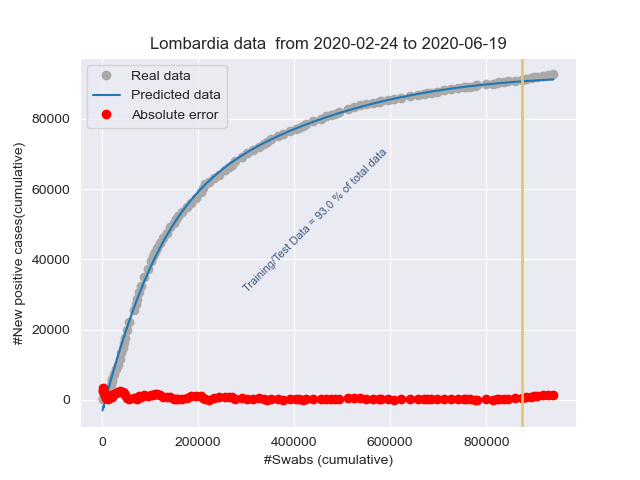
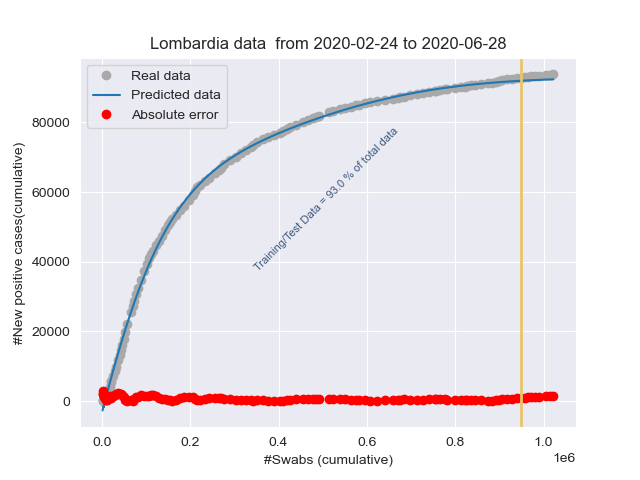
Add files via upload

diff --git a/stat_Friuli Venezia Giulia.html b/stat_Friuli Venezia Giulia.html
@@ -1,1 +1,1 @@
-<!DOCTYPE html><html lang="it"><head><title>Results</title><meta charset="utf-8"><meta name="viewport" content="width=device-width, initial-scale=1"><link rel="stylesheet" href="bootstrap.min.css"><script src="https://ajax.googleapis.com/ajax/libs/jquery/3.4.1/jquery.min.js"></script><script src="https://maxcdn.bootstrapcdn.com/bootstrap/3.4.1/js/bootstrap.min.js"></script></head><body><h3>Day: 2020-06-19</h3><p class="lead my-3">New positive cases: <b>2</b></p><p class="lead my-3">Variation of positive cases: <b>0.0%</b></p><p class="lead my-3">Number of swabs: <b>2624.0</b></p><p class="lead my-3">Variation of swabs: <b>1.57%</b></p><p class="lead my-3">Postive cases/Swabs: <b>0.08 %</b></p><p class="lead my-3">Number of people admitted to Intensive care: <b>0</b></p><p class="lead my-3">Number of recovered people: <b>14.0</b></p><p class="lead my-3">Number of dead people: <b>0.0</b></p><h3>Total</h3><p class="lead my-3">Population of  Friuli Venezia Giulia: <b>1215220</b> <a href="http://dati.istat.it/Index.aspx?QueryId=18548" target="_blank">ISTAT data</a></p><p class="lead my-3">Total number of positive cases from 2020-02-24 00:00:00 to 2020-06-19: <b> 3303</b></p><p class="lead my-3">Total number of swabs from 2020-02-24 00:00:00 to 2020-06-19: <b> 170109</b></p><p class="lead my-3">TotalSwabs/Population: <b> 14.0%</b></p></body></html>
+<!DOCTYPE html><html lang="it"><head><title>Results</title><meta charset="utf-8"><meta name="viewport" content="width=device-width, initial-scale=1"><link rel="stylesheet" href="bootstrap.min.css"><script src="https://ajax.googleapis.com/ajax/libs/jquery/3.4.1/jquery.min.js"></script><script src="https://maxcdn.bootstrapcdn.com/bootstrap/3.4.1/js/bootstrap.min.js"></script></head><body><h3>Day: 2020-06-28</h3><p class="lead my-3">New positive cases: <b>1</b></p><p class="lead my-3">Variation of positive cases: <b>inf%</b></p><p class="lead my-3">Number of swabs: <b>1130.0</b></p><p class="lead my-3">Variation of swabs: <b>0.61%</b></p><p class="lead my-3">Postive cases/Swabs: <b>0.09 %</b></p><p class="lead my-3">Number of people admitted to Intensive care: <b>0</b></p><p class="lead my-3">Number of recovered people: <b>5.0</b></p><p class="lead my-3">Number of dead people: <b>0.0</b></p><h3>Total</h3><p class="lead my-3">Population of  Friuli Venezia Giulia: <b>1215220</b> <a href="http://dati.istat.it/Index.aspx?QueryId=18548" target="_blank">ISTAT data</a></p><p class="lead my-3">Total number of positive cases from 2020-02-24 00:00:00 to 2020-06-28: <b> 3308</b></p><p class="lead my-3">Total number of swabs from 2020-02-24 00:00:00 to 2020-06-28: <b> 186781</b></p><p class="lead my-3">TotalSwabs/Population: <b> 15.37%</b></p></body></html>

diff --git a/stat_Emilia-Romagna.html b/stat_Emilia-Romagna.html
@@ -1,1 +1,1 @@
-<!DOCTYPE html><html lang="it"><head><title>Results</title><meta charset="utf-8"><meta name="viewport" content="width=device-width, initial-scale=1"><link rel="stylesheet" href="bootstrap.min.css"><script src="https://ajax.googleapis.com/ajax/libs/jquery/3.4.1/jquery.min.js"></script><script src="https://maxcdn.bootstrapcdn.com/bootstrap/3.4.1/js/bootstrap.min.js"></script></head><body><h3>Day: 2020-06-19</h3><p class="lead my-3">New positive cases: <b>27</b></p><p class="lead my-3">Variation of positive cases: <b>-15.62%</b></p><p class="lead my-3">Number of swabs: <b>7950.0</b></p><p class="lead my-3">Variation of swabs: <b>1.83%</b></p><p class="lead my-3">Postive cases/Swabs: <b>0.34 %</b></p><p class="lead my-3">Number of people admitted to Intensive care: <b>11</b></p><p class="lead my-3">Number of recovered people: <b>84.0</b></p><p class="lead my-3">Number of dead people: <b>5.0</b></p><h3>Total</h3><p class="lead my-3">Population of  Emilia-Romagna: <b>4459477</b> <a href="http://dati.istat.it/Index.aspx?QueryId=18548" target="_blank">ISTAT data</a></p><p class="lead my-3">Total number of positive cases from 2020-02-24 00:00:00 to 2020-06-19: <b> 28170</b></p><p class="lead my-3">Total number of swabs from 2020-02-24 00:00:00 to 2020-06-19: <b> 443301</b></p><p class="lead my-3">TotalSwabs/Population: <b> 9.94%</b></p></body></html>
+<!DOCTYPE html><html lang="it"><head><title>Results</title><meta charset="utf-8"><meta name="viewport" content="width=device-width, initial-scale=1"><link rel="stylesheet" href="bootstrap.min.css"><script src="https://ajax.googleapis.com/ajax/libs/jquery/3.4.1/jquery.min.js"></script><script src="https://maxcdn.bootstrapcdn.com/bootstrap/3.4.1/js/bootstrap.min.js"></script></head><body><h3>Day: 2020-06-28</h3><p class="lead my-3">New positive cases: <b>21</b></p><p class="lead my-3">Variation of positive cases: <b>-50.0%</b></p><p class="lead my-3">Number of swabs: <b>3421.0</b></p><p class="lead my-3">Variation of swabs: <b>0.71%</b></p><p class="lead my-3">Postive cases/Swabs: <b>0.61 %</b></p><p class="lead my-3">Number of people admitted to Intensive care: <b>12</b></p><p class="lead my-3">Number of recovered people: <b>19.0</b></p><p class="lead my-3">Number of dead people: <b>1.0</b></p><h3>Total</h3><p class="lead my-3">Population of  Emilia-Romagna: <b>4459477</b> <a href="http://dati.istat.it/Index.aspx?QueryId=18548" target="_blank">ISTAT data</a></p><p class="lead my-3">Total number of positive cases from 2020-02-24 00:00:00 to 2020-06-28: <b> 28460</b></p><p class="lead my-3">Total number of swabs from 2020-02-24 00:00:00 to 2020-06-28: <b> 486730</b></p><p class="lead my-3">TotalSwabs/Population: <b> 10.91%</b></p></body></html>

diff --git a/stat_Lombardia.html b/stat_Lombardia.html
@@ -1,1 +1,1 @@
-<!DOCTYPE html><html lang="it"><head><title>Results</title><meta charset="utf-8"><meta name="viewport" content="width=device-width, initial-scale=1"><link rel="stylesheet" href="bootstrap.min.css"><script src="https://ajax.googleapis.com/ajax/libs/jquery/3.4.1/jquery.min.js"></script><script src="https://maxcdn.bootstrapcdn.com/bootstrap/3.4.1/js/bootstrap.min.js"></script></head><body><h3>Day: 2020-06-19</h3><p class="lead my-3">New positive cases: <b>157</b></p><p class="lead my-3">Variation of positive cases: <b>-27.31%</b></p><p class="lead my-3">Number of swabs: <b>10464.0</b></p><p class="lead my-3">Variation of swabs: <b>1.13%</b></p><p class="lead my-3">Postive cases/Swabs: <b>1.5 %</b></p><p class="lead my-3">Number of people admitted to Intensive care: <b>60</b></p><p class="lead my-3">Number of recovered people: <b>741.0</b></p><p class="lead my-3">Number of dead people: <b>18.0</b></p><h3>Total</h3><p class="lead my-3">Population of  Lombardia: <b>10060574</b> <a href="http://dati.istat.it/Index.aspx?QueryId=18548" target="_blank">ISTAT data</a></p><p class="lead my-3">Total number of positive cases from 2020-02-24 00:00:00 to 2020-06-19: <b> 92669</b></p><p class="lead my-3">Total number of swabs from 2020-02-24 00:00:00 to 2020-06-19: <b> 939820</b></p><p class="lead my-3">TotalSwabs/Population: <b> 9.34%</b></p></body></html>
+<!DOCTYPE html><html lang="it"><head><title>Results</title><meta charset="utf-8"><meta name="viewport" content="width=device-width, initial-scale=1"><link rel="stylesheet" href="bootstrap.min.css"><script src="https://ajax.googleapis.com/ajax/libs/jquery/3.4.1/jquery.min.js"></script><script src="https://maxcdn.bootstrapcdn.com/bootstrap/3.4.1/js/bootstrap.min.js"></script></head><body><h3>Day: 2020-06-28</h3><p class="lead my-3">New positive cases: <b>97</b></p><p class="lead my-3">Variation of positive cases: <b>25.97%</b></p><p class="lead my-3">Number of swabs: <b>8119.0</b></p><p class="lead my-3">Variation of swabs: <b>0.8%</b></p><p class="lead my-3">Postive cases/Swabs: <b>1.19 %</b></p><p class="lead my-3">Number of people admitted to Intensive care: <b>43</b></p><p class="lead my-3">Number of recovered people: <b>129.0</b></p><p class="lead my-3">Number of dead people: <b>13.0</b></p><h3>Total</h3><p class="lead my-3">Population of  Lombardia: <b>10060574</b> <a href="http://dati.istat.it/Index.aspx?QueryId=18548" target="_blank">ISTAT data</a></p><p class="lead my-3">Total number of positive cases from 2020-02-24 00:00:00 to 2020-06-28: <b> 93755</b></p><p class="lead my-3">Total number of swabs from 2020-02-24 00:00:00 to 2020-06-28: <b> 1022440</b></p><p class="lead my-3">TotalSwabs/Population: <b> 10.16%</b></p></body></html>

diff --git a/stat_Italy.html b/stat_Italy.html
@@ -1,1 +1,1 @@
-<!DOCTYPE html><html lang="it"><head><title>Results</title><meta charset="utf-8"><meta name="viewport" content="width=device-width, initial-scale=1"><link rel="stylesheet" href="bootstrap.min.css"><script src="https://ajax.googleapis.com/ajax/libs/jquery/3.4.1/jquery.min.js"></script><script src="https://maxcdn.bootstrapcdn.com/bootstrap/3.4.1/js/bootstrap.min.js"></script></head><body><h3>Day: 2020-06-19</h3><p class="lead my-3">New positive cases: <b>251</b></p><p class="lead my-3">Variation of positive cases: <b>-24.62%</b></p><p class="lead my-3">Number of swabs: <b>57541.0</b></p><p class="lead my-3">Variation of swabs: <b>1.19%</b></p><p class="lead my-3">Postive cases/Swabs: <b>0.44 %</b></p><p class="lead my-3">Number of people admitted to Intensive care: <b>161</b></p><p class="lead my-3">Number of recovered people: <b>1363.0</b></p><p class="lead my-3">Number of dead people: <b>47.0</b></p><h3>Total</h3><p class="lead my-3">Population of  Italy: <b>60359546</b> <a href="http://dati.istat.it/Index.aspx?QueryId=18548" target="_blank">ISTAT data</a></p><p class="lead my-3">Total number of positive cases from 2020-02-24 00:00:00 to 2020-06-19: <b> 238407</b></p><p class="lead my-3">Total number of swabs from 2020-02-24 00:00:00 to 2020-06-19: <b> 4889103</b></p><p class="lead my-3">TotalSwabs/Population: <b> 8.1%</b></p></body></html>
+<!DOCTYPE html><html lang="it"><head><title>Results</title><meta charset="utf-8"><meta name="viewport" content="width=device-width, initial-scale=1"><link rel="stylesheet" href="bootstrap.min.css"><script src="https://ajax.googleapis.com/ajax/libs/jquery/3.4.1/jquery.min.js"></script><script src="https://maxcdn.bootstrapcdn.com/bootstrap/3.4.1/js/bootstrap.min.js"></script></head><body><h3>Day: 2020-06-28</h3><p class="lead my-3">New positive cases: <b>174</b></p><p class="lead my-3">Variation of positive cases: <b>-0.57%</b></p><p class="lead my-3">Number of swabs: <b>37346.0</b></p><p class="lead my-3">Variation of swabs: <b>0.71%</b></p><p class="lead my-3">Postive cases/Swabs: <b>0.47 %</b></p><p class="lead my-3">Number of people admitted to Intensive care: <b>98</b></p><p class="lead my-3">Number of recovered people: <b>307.0</b></p><p class="lead my-3">Number of dead people: <b>22.0</b></p><h3>Total</h3><p class="lead my-3">Population of  Italy: <b>60359546</b> <a href="http://dati.istat.it/Index.aspx?QueryId=18548" target="_blank">ISTAT data</a></p><p class="lead my-3">Total number of positive cases from 2020-02-24 00:00:00 to 2020-06-28: <b> 240327</b></p><p class="lead my-3">Total number of swabs from 2020-02-24 00:00:00 to 2020-06-28: <b> 5314619</b></p><p class="lead my-3">TotalSwabs/Population: <b> 8.8%</b></p></body></html>

diff --git a/stat_Piemonte.html b/stat_Piemonte.html
@@ -1,1 +1,1 @@
-<!DOCTYPE html><html lang="it"><head><title>Results</title><meta charset="utf-8"><meta name="viewport" content="width=device-width, initial-scale=1"><link rel="stylesheet" href="bootstrap.min.css"><script src="https://ajax.googleapis.com/ajax/libs/jquery/3.4.1/jquery.min.js"></script><script src="https://maxcdn.bootstrapcdn.com/bootstrap/3.4.1/js/bootstrap.min.js"></script></head><body><h3>Day: 2020-06-19</h3><p class="lead my-3">New positive cases: <b>26</b></p><p class="lead my-3">Variation of positive cases: <b>-16.13%</b></p><p class="lead my-3">Number of swabs: <b>4310.0</b></p><p class="lead my-3">Variation of swabs: <b>1.13%</b></p><p class="lead my-3">Postive cases/Swabs: <b>0.6 %</b></p><p class="lead my-3">Number of people admitted to Intensive care: <b>22</b></p><p class="lead my-3">Number of recovered people: <b>131.0</b></p><p class="lead my-3">Number of dead people: <b>7.0</b></p><h3>Total</h3><p class="lead my-3">Population of  Piemonte: <b>4356406</b> <a href="http://dati.istat.it/Index.aspx?QueryId=18548" target="_blank">ISTAT data</a></p><p class="lead my-3">Total number of positive cases from 2020-02-24 00:00:00 to 2020-06-19: <b> 31188</b></p><p class="lead my-3">Total number of swabs from 2020-02-24 00:00:00 to 2020-06-19: <b> 384705</b></p><p class="lead my-3">TotalSwabs/Population: <b> 8.83%</b></p></body></html>
+<!DOCTYPE html><html lang="it"><head><title>Results</title><meta charset="utf-8"><meta name="viewport" content="width=device-width, initial-scale=1"><link rel="stylesheet" href="bootstrap.min.css"><script src="https://ajax.googleapis.com/ajax/libs/jquery/3.4.1/jquery.min.js"></script><script src="https://maxcdn.bootstrapcdn.com/bootstrap/3.4.1/js/bootstrap.min.js"></script></head><body><h3>Day: 2020-06-28</h3><p class="lead my-3">New positive cases: <b>14</b></p><p class="lead my-3">Variation of positive cases: <b>27.27%</b></p><p class="lead my-3">Number of swabs: <b>1977.0</b></p><p class="lead my-3">Variation of swabs: <b>0.48%</b></p><p class="lead my-3">Postive cases/Swabs: <b>0.71 %</b></p><p class="lead my-3">Number of people admitted to Intensive care: <b>12</b></p><p class="lead my-3">Number of recovered people: <b>17.0</b></p><p class="lead my-3">Number of dead people: <b>5.0</b></p><h3>Total</h3><p class="lead my-3">Population of  Piemonte: <b>4356406</b> <a href="http://dati.istat.it/Index.aspx?QueryId=18548" target="_blank">ISTAT data</a></p><p class="lead my-3">Total number of positive cases from 2020-02-24 00:00:00 to 2020-06-28: <b> 31336</b></p><p class="lead my-3">Total number of swabs from 2020-02-24 00:00:00 to 2020-06-28: <b> 410813</b></p><p class="lead my-3">TotalSwabs/Population: <b> 9.43%</b></p></body></html>

diff --git a/stat_P.A. Trento.html b/stat_P.A. Trento.html
@@ -1,1 +1,1 @@
-<!DOCTYPE html><html lang="it"><head><title>Results</title><meta charset="utf-8"><meta name="viewport" content="width=device-width, initial-scale=1"><link rel="stylesheet" href="bootstrap.min.css"><script src="https://ajax.googleapis.com/ajax/libs/jquery/3.4.1/jquery.min.js"></script><script src="https://maxcdn.bootstrapcdn.com/bootstrap/3.4.1/js/bootstrap.min.js"></script></head><body><h3>Day: 2020-06-19</h3><p class="lead my-3">New positive cases: <b>1</b></p><p class="lead my-3">Variation of positive cases: <b>-87.5%</b></p><p class="lead my-3">Number of swabs: <b>1198.0</b></p><p class="lead my-3">Variation of swabs: <b>1.12%</b></p><p class="lead my-3">Postive cases/Swabs: <b>0.08 %</b></p><p class="lead my-3">Number of people admitted to Intensive care: <b>0</b></p><p class="lead my-3">Number of recovered people: <b>3.0</b></p><p class="lead my-3">Number of dead people: <b>1.0</b></p><h3>Total</h3><p class="lead my-3">Population of  P.A. Trento: <b>541098</b> <a href="http://dati.istat.it/Index.aspx?QueryId=18548" target="_blank">ISTAT data</a></p><p class="lead my-3">Total number of positive cases from 2020-02-24 00:00:00 to 2020-06-19: <b> 4458</b></p><p class="lead my-3">Total number of swabs from 2020-02-24 00:00:00 to 2020-06-19: <b> 108564</b></p><p class="lead my-3">TotalSwabs/Population: <b> 20.06%</b></p></body></html>
+<!DOCTYPE html><html lang="it"><head><title>Results</title><meta charset="utf-8"><meta name="viewport" content="width=device-width, initial-scale=1"><link rel="stylesheet" href="bootstrap.min.css"><script src="https://ajax.googleapis.com/ajax/libs/jquery/3.4.1/jquery.min.js"></script><script src="https://maxcdn.bootstrapcdn.com/bootstrap/3.4.1/js/bootstrap.min.js"></script></head><body><h3>Day: 2020-06-28</h3><p class="lead my-3">New positive cases: <b>3</b></p><p class="lead my-3">Variation of positive cases: <b>200.0%</b></p><p class="lead my-3">Number of swabs: <b>1026.0</b></p><p class="lead my-3">Variation of swabs: <b>0.86%</b></p><p class="lead my-3">Postive cases/Swabs: <b>0.29 %</b></p><p class="lead my-3">Number of people admitted to Intensive care: <b>0</b></p><p class="lead my-3">Number of recovered people: <b>0.0</b></p><p class="lead my-3">Number of dead people: <b>0.0</b></p><h3>Total</h3><p class="lead my-3">Population of  P.A. Trento: <b>541098</b> <a href="http://dati.istat.it/Index.aspx?QueryId=18548" target="_blank">ISTAT data</a></p><p class="lead my-3">Total number of positive cases from 2020-02-24 00:00:00 to 2020-06-28: <b> 4476</b></p><p class="lead my-3">Total number of swabs from 2020-02-24 00:00:00 to 2020-06-28: <b> 120065</b></p><p class="lead my-3">TotalSwabs/Population: <b> 22.19%</b></p></body></html>

diff --git a/stat_Toscana.html b/stat_Toscana.html
@@ -1,1 +1,1 @@
-<!DOCTYPE html><html lang="it"><head><title>Results</title><meta charset="utf-8"><meta name="viewport" content="width=device-width, initial-scale=1"><link rel="stylesheet" href="bootstrap.min.css"><script src="https://ajax.googleapis.com/ajax/libs/jquery/3.4.1/jquery.min.js"></script><script src="https://maxcdn.bootstrapcdn.com/bootstrap/3.4.1/js/bootstrap.min.js"></script></head><body><h3>Day: 2020-06-19</h3><p class="lead my-3">New positive cases: <b>10</b></p><p class="lead my-3">Variation of positive cases: <b>400.0%</b></p><p class="lead my-3">Number of swabs: <b>2703.0</b></p><p class="lead my-3">Variation of swabs: <b>0.89%</b></p><p class="lead my-3">Postive cases/Swabs: <b>0.37 %</b></p><p class="lead my-3">Number of people admitted to Intensive care: <b>12</b></p><p class="lead my-3">Number of recovered people: <b>23.0</b></p><p class="lead my-3">Number of dead people: <b>2.0</b></p><h3>Total</h3><p class="lead my-3">Population of  Toscana: <b>3729641</b> <a href="http://dati.istat.it/Index.aspx?QueryId=18548" target="_blank">ISTAT data</a></p><p class="lead my-3">Total number of positive cases from 2020-02-24 00:00:00 to 2020-06-19: <b> 10205</b></p><p class="lead my-3">Total number of swabs from 2020-02-24 00:00:00 to 2020-06-19: <b> 306489</b></p><p class="lead my-3">TotalSwabs/Population: <b> 8.22%</b></p></body></html>
+<!DOCTYPE html><html lang="it"><head><title>Results</title><meta charset="utf-8"><meta name="viewport" content="width=device-width, initial-scale=1"><link rel="stylesheet" href="bootstrap.min.css"><script src="https://ajax.googleapis.com/ajax/libs/jquery/3.4.1/jquery.min.js"></script><script src="https://maxcdn.bootstrapcdn.com/bootstrap/3.4.1/js/bootstrap.min.js"></script></head><body><h3>Day: 2020-06-28</h3><p class="lead my-3">New positive cases: <b>5</b></p><p class="lead my-3">Variation of positive cases: <b>-58.33%</b></p><p class="lead my-3">Number of swabs: <b>2893.0</b></p><p class="lead my-3">Variation of swabs: <b>0.88%</b></p><p class="lead my-3">Postive cases/Swabs: <b>0.17 %</b></p><p class="lead my-3">Number of people admitted to Intensive care: <b>6</b></p><p class="lead my-3">Number of recovered people: <b>0.0</b></p><p class="lead my-3">Number of dead people: <b>0.0</b></p><h3>Total</h3><p class="lead my-3">Population of  Toscana: <b>3729641</b> <a href="http://dati.istat.it/Index.aspx?QueryId=18548" target="_blank">ISTAT data</a></p><p class="lead my-3">Total number of positive cases from 2020-02-24 00:00:00 to 2020-06-28: <b> 10243</b></p><p class="lead my-3">Total number of swabs from 2020-02-24 00:00:00 to 2020-06-28: <b> 332758</b></p><p class="lead my-3">TotalSwabs/Population: <b> 8.92%</b></p></body></html>

diff --git a/stat_P.A. Bolzano.html b/stat_P.A. Bolzano.html
@@ -1,1 +1,1 @@
-<!DOCTYPE html><html lang="it"><head><title>Results</title><meta charset="utf-8"><meta name="viewport" content="width=device-width, initial-scale=1"><link rel="stylesheet" href="bootstrap.min.css"><script src="https://ajax.googleapis.com/ajax/libs/jquery/3.4.1/jquery.min.js"></script><script src="https://maxcdn.bootstrapcdn.com/bootstrap/3.4.1/js/bootstrap.min.js"></script></head><body><h3>Day: 2020-06-19</h3><p class="lead my-3">New positive cases: <b>2</b></p><p class="lead my-3">Variation of positive cases: <b>0.0%</b></p><p class="lead my-3">Number of swabs: <b>626.0</b></p><p class="lead my-3">Variation of swabs: <b>0.8%</b></p><p class="lead my-3">Postive cases/Swabs: <b>0.32 %</b></p><p class="lead my-3">Number of people admitted to Intensive care: <b>1</b></p><p class="lead my-3">Number of recovered people: <b>12.0</b></p><p class="lead my-3">Number of dead people: <b>0.0</b></p><h3>Total</h3><p class="lead my-3">Population of  P.A. Bolzano: <b>531178</b> <a href="http://dati.istat.it/Index.aspx?QueryId=18548" target="_blank">ISTAT data</a></p><p class="lead my-3">Total number of positive cases from 2020-02-24 00:00:00 to 2020-06-19: <b> 2617</b></p><p class="lead my-3">Total number of swabs from 2020-02-24 00:00:00 to 2020-06-19: <b> 78580</b></p><p class="lead my-3">TotalSwabs/Population: <b> 14.79%</b></p></body></html>
+<!DOCTYPE html><html lang="it"><head><title>Results</title><meta charset="utf-8"><meta name="viewport" content="width=device-width, initial-scale=1"><link rel="stylesheet" href="bootstrap.min.css"><script src="https://ajax.googleapis.com/ajax/libs/jquery/3.4.1/jquery.min.js"></script><script src="https://maxcdn.bootstrapcdn.com/bootstrap/3.4.1/js/bootstrap.min.js"></script></head><body><h3>Day: 2020-06-28</h3><p class="lead my-3">New positive cases: <b>1</b></p><p class="lead my-3">Variation of positive cases: <b>-50.0%</b></p><p class="lead my-3">Number of swabs: <b>405.0</b></p><p class="lead my-3">Variation of swabs: <b>0.49%</b></p><p class="lead my-3">Postive cases/Swabs: <b>0.25 %</b></p><p class="lead my-3">Number of people admitted to Intensive care: <b>1</b></p><p class="lead my-3">Number of recovered people: <b>3.0</b></p><p class="lead my-3">Number of dead people: <b>0.0</b></p><h3>Total</h3><p class="lead my-3">Population of  P.A. Bolzano: <b>531178</b> <a href="http://dati.istat.it/Index.aspx?QueryId=18548" target="_blank">ISTAT data</a></p><p class="lead my-3">Total number of positive cases from 2020-02-24 00:00:00 to 2020-06-28: <b> 2636</b></p><p class="lead my-3">Total number of swabs from 2020-02-24 00:00:00 to 2020-06-28: <b> 83445</b></p><p class="lead my-3">TotalSwabs/Population: <b> 15.71%</b></p></body></html>

diff --git a/stat_Veneto.html b/stat_Veneto.html
@@ -1,1 +1,1 @@
-<!DOCTYPE html><html lang="it"><head><title>Results</title><meta charset="utf-8"><meta name="viewport" content="width=device-width, initial-scale=1"><link rel="stylesheet" href="bootstrap.min.css"><script src="https://ajax.googleapis.com/ajax/libs/jquery/3.4.1/jquery.min.js"></script><script src="https://maxcdn.bootstrapcdn.com/bootstrap/3.4.1/js/bootstrap.min.js"></script></head><body><h3>Day: 2020-06-19</h3><p class="lead my-3">New positive cases: <b>2</b></p><p class="lead my-3">Variation of positive cases: <b>-75.0%</b></p><p class="lead my-3">Number of swabs: <b>10729.0</b></p><p class="lead my-3">Variation of swabs: <b>1.27%</b></p><p class="lead my-3">Postive cases/Swabs: <b>0.02 %</b></p><p class="lead my-3">Number of people admitted to Intensive care: <b>1</b></p><p class="lead my-3">Number of recovered people: <b>23.0</b></p><p class="lead my-3">Number of dead people: <b>4.0</b></p><h3>Total</h3><p class="lead my-3">Population of  Veneto: <b>4905854</b> <a href="http://dati.istat.it/Index.aspx?QueryId=18548" target="_blank">ISTAT data</a></p><p class="lead my-3">Total number of positive cases from 2020-02-24 00:00:00 to 2020-06-19: <b> 19234</b></p><p class="lead my-3">Total number of swabs from 2020-02-24 00:00:00 to 2020-06-19: <b> 858726</b></p><p class="lead my-3">TotalSwabs/Population: <b> 17.5%</b></p></body></html>
+<!DOCTYPE html><html lang="it"><head><title>Results</title><meta charset="utf-8"><meta name="viewport" content="width=device-width, initial-scale=1"><link rel="stylesheet" href="bootstrap.min.css"><script src="https://ajax.googleapis.com/ajax/libs/jquery/3.4.1/jquery.min.js"></script><script src="https://maxcdn.bootstrapcdn.com/bootstrap/3.4.1/js/bootstrap.min.js"></script></head><body><h3>Day: 2020-06-28</h3><p class="lead my-3">New positive cases: <b>11</b></p><p class="lead my-3">Variation of positive cases: <b>450.0%</b></p><p class="lead my-3">Number of swabs: <b>6593.0</b></p><p class="lead my-3">Variation of swabs: <b>0.7%</b></p><p class="lead my-3">Postive cases/Swabs: <b>0.17 %</b></p><p class="lead my-3">Number of people admitted to Intensive care: <b>1</b></p><p class="lead my-3">Number of recovered people: <b>32.0</b></p><p class="lead my-3">Number of dead people: <b>1.0</b></p><h3>Total</h3><p class="lead my-3">Population of  Veneto: <b>4905854</b> <a href="http://dati.istat.it/Index.aspx?QueryId=18548" target="_blank">ISTAT data</a></p><p class="lead my-3">Total number of positive cases from 2020-02-24 00:00:00 to 2020-06-28: <b> 19274</b></p><p class="lead my-3">Total number of swabs from 2020-02-24 00:00:00 to 2020-06-28: <b> 944010</b></p><p class="lead my-3">TotalSwabs/Population: <b> 19.24%</b></p></body></html>

diff --git a/stat_Campania.html b/stat_Campania.html
@@ -1,1 +1,1 @@
-<!DOCTYPE html><html lang="it"><head><title>Results</title><meta charset="utf-8"><meta name="viewport" content="width=device-width, initial-scale=1"><link rel="stylesheet" href="bootstrap.min.css"><script src="https://ajax.googleapis.com/ajax/libs/jquery/3.4.1/jquery.min.js"></script><script src="https://maxcdn.bootstrapcdn.com/bootstrap/3.4.1/js/bootstrap.min.js"></script></head><body><h3>Day: 2020-06-19</h3><p class="lead my-3">New positive cases: <b>0</b></p><p class="lead my-3">Variation of positive cases: <b>-100.0%</b></p><p class="lead my-3">Number of swabs: <b>1987.0</b></p><p class="lead my-3">Variation of swabs: <b>0.77%</b></p><p class="lead my-3">Postive cases/Swabs: <b>0.0 %</b></p><p class="lead my-3">Number of people admitted to Intensive care: <b>3</b></p><p class="lead my-3">Number of recovered people: <b>117.0</b></p><p class="lead my-3">Number of dead people: <b>0.0</b></p><h3>Total</h3><p class="lead my-3">Population of  Campania: <b>5801692</b> <a href="http://dati.istat.it/Index.aspx?QueryId=18548" target="_blank">ISTAT data</a></p><p class="lead my-3">Total number of positive cases from 2020-02-24 00:00:00 to 2020-06-19: <b> 4615</b></p><p class="lead my-3">Total number of swabs from 2020-02-24 00:00:00 to 2020-06-19: <b> 261642</b></p><p class="lead my-3">TotalSwabs/Population: <b> 4.51%</b></p></body></html>
+<!DOCTYPE html><html lang="it"><head><title>Results</title><meta charset="utf-8"><meta name="viewport" content="width=device-width, initial-scale=1"><link rel="stylesheet" href="bootstrap.min.css"><script src="https://ajax.googleapis.com/ajax/libs/jquery/3.4.1/jquery.min.js"></script><script src="https://maxcdn.bootstrapcdn.com/bootstrap/3.4.1/js/bootstrap.min.js"></script></head><body><h3>Day: 2020-06-28</h3><p class="lead my-3">New positive cases: <b>0</b></p><p class="lead my-3">Variation of positive cases: <b>0.0%</b></p><p class="lead my-3">Number of swabs: <b>1535.0</b></p><p class="lead my-3">Variation of swabs: <b>0.56%</b></p><p class="lead my-3">Postive cases/Swabs: <b>0.0 %</b></p><p class="lead my-3">Number of people admitted to Intensive care: <b>0</b></p><p class="lead my-3">Number of recovered people: <b>0.0</b></p><p class="lead my-3">Number of dead people: <b>0.0</b></p><h3>Total</h3><p class="lead my-3">Population of  Campania: <b>5801692</b> <a href="http://dati.istat.it/Index.aspx?QueryId=18548" target="_blank">ISTAT data</a></p><p class="lead my-3">Total number of positive cases from 2020-02-24 00:00:00 to 2020-06-28: <b> 4665</b></p><p class="lead my-3">Total number of swabs from 2020-02-24 00:00:00 to 2020-06-28: <b> 277560</b></p><p class="lead my-3">TotalSwabs/Population: <b> 4.78%</b></p></body></html>

diff --git a/stat_Sicilia.html b/stat_Sicilia.html
@@ -1,1 +1,1 @@
-<!DOCTYPE html><html lang="it"><head><title>Results</title><meta charset="utf-8"><meta name="viewport" content="width=device-width, initial-scale=1"><link rel="stylesheet" href="bootstrap.min.css"><script src="https://ajax.googleapis.com/ajax/libs/jquery/3.4.1/jquery.min.js"></script><script src="https://maxcdn.bootstrapcdn.com/bootstrap/3.4.1/js/bootstrap.min.js"></script></head><body><h3>Day: 2020-06-19</h3><p class="lead my-3">New positive cases: <b>3</b></p><p class="lead my-3">Variation of positive cases: <b>50.0%</b></p><p class="lead my-3">Number of swabs: <b>1616.0</b></p><p class="lead my-3">Variation of swabs: <b>0.87%</b></p><p class="lead my-3">Postive cases/Swabs: <b>0.19 %</b></p><p class="lead my-3">Number of people admitted to Intensive care: <b>5</b></p><p class="lead my-3">Number of recovered people: <b>93.0</b></p><p class="lead my-3">Number of dead people: <b>0.0</b></p><h3>Total</h3><p class="lead my-3">Population of  Sicilia: <b>4999891</b> <a href="http://dati.istat.it/Index.aspx?QueryId=18548" target="_blank">ISTAT data</a></p><p class="lead my-3">Total number of positive cases from 2020-02-24 00:00:00 to 2020-06-19: <b> 3467</b></p><p class="lead my-3">Total number of swabs from 2020-02-24 00:00:00 to 2020-06-19: <b> 187869</b></p><p class="lead my-3">TotalSwabs/Population: <b> 3.76%</b></p></body></html>
+<!DOCTYPE html><html lang="it"><head><title>Results</title><meta charset="utf-8"><meta name="viewport" content="width=device-width, initial-scale=1"><link rel="stylesheet" href="bootstrap.min.css"><script src="https://ajax.googleapis.com/ajax/libs/jquery/3.4.1/jquery.min.js"></script><script src="https://maxcdn.bootstrapcdn.com/bootstrap/3.4.1/js/bootstrap.min.js"></script></head><body><h3>Day: 2020-06-28</h3><p class="lead my-3">New positive cases: <b>0</b></p><p class="lead my-3">Variation of positive cases: <b>-100.0%</b></p><p class="lead my-3">Number of swabs: <b>1308.0</b></p><p class="lead my-3">Variation of swabs: <b>0.64%</b></p><p class="lead my-3">Postive cases/Swabs: <b>0.0 %</b></p><p class="lead my-3">Number of people admitted to Intensive care: <b>4</b></p><p class="lead my-3">Number of recovered people: <b>0.0</b></p><p class="lead my-3">Number of dead people: <b>0.0</b></p><h3>Total</h3><p class="lead my-3">Population of  Sicilia: <b>4999891</b> <a href="http://dati.istat.it/Index.aspx?QueryId=18548" target="_blank">ISTAT data</a></p><p class="lead my-3">Total number of positive cases from 2020-02-24 00:00:00 to 2020-06-28: <b> 3474</b></p><p class="lead my-3">Total number of swabs from 2020-02-24 00:00:00 to 2020-06-28: <b> 205492</b></p><p class="lead my-3">TotalSwabs/Population: <b> 4.11%</b></p></body></html>

diff --git a/stat_Lazio.html b/stat_Lazio.html
@@ -1,1 +1,1 @@
-<!DOCTYPE html><html lang="it"><head><title>Results</title><meta charset="utf-8"><meta name="viewport" content="width=device-width, initial-scale=1"><link rel="stylesheet" href="bootstrap.min.css"><script src="https://ajax.googleapis.com/ajax/libs/jquery/3.4.1/jquery.min.js"></script><script src="https://maxcdn.bootstrapcdn.com/bootstrap/3.4.1/js/bootstrap.min.js"></script></head><body><h3>Day: 2020-06-19</h3><p class="lead my-3">New positive cases: <b>9</b></p><p class="lead my-3">Variation of positive cases: <b>0.0%</b></p><p class="lead my-3">Number of swabs: <b>3539.0</b></p><p class="lead my-3">Variation of swabs: <b>1.14%</b></p><p class="lead my-3">Postive cases/Swabs: <b>0.25 %</b></p><p class="lead my-3">Number of people admitted to Intensive care: <b>38</b></p><p class="lead my-3">Number of recovered people: <b>14.0</b></p><p class="lead my-3">Number of dead people: <b>4.0</b></p><h3>Total</h3><p class="lead my-3">Population of  Lazio: <b>5879082</b> <a href="http://dati.istat.it/Index.aspx?QueryId=18548" target="_blank">ISTAT data</a></p><p class="lead my-3">Total number of positive cases from 2020-02-24 00:00:00 to 2020-06-19: <b> 7994</b></p><p class="lead my-3">Total number of swabs from 2020-02-24 00:00:00 to 2020-06-19: <b> 312708</b></p><p class="lead my-3">TotalSwabs/Population: <b> 5.32%</b></p></body></html>
+<!DOCTYPE html><html lang="it"><head><title>Results</title><meta charset="utf-8"><meta name="viewport" content="width=device-width, initial-scale=1"><link rel="stylesheet" href="bootstrap.min.css"><script src="https://ajax.googleapis.com/ajax/libs/jquery/3.4.1/jquery.min.js"></script><script src="https://maxcdn.bootstrapcdn.com/bootstrap/3.4.1/js/bootstrap.min.js"></script></head><body><h3>Day: 2020-06-28</h3><p class="lead my-3">New positive cases: <b>14</b></p><p class="lead my-3">Variation of positive cases: <b>-22.22%</b></p><p class="lead my-3">Number of swabs: <b>2253.0</b></p><p class="lead my-3">Variation of swabs: <b>0.68%</b></p><p class="lead my-3">Postive cases/Swabs: <b>0.62 %</b></p><p class="lead my-3">Number of people admitted to Intensive care: <b>13</b></p><p class="lead my-3">Number of recovered people: <b>0.0</b></p><p class="lead my-3">Number of dead people: <b>0.0</b></p><h3>Total</h3><p class="lead my-3">Population of  Lazio: <b>5879082</b> <a href="http://dati.istat.it/Index.aspx?QueryId=18548" target="_blank">ISTAT data</a></p><p class="lead my-3">Total number of positive cases from 2020-02-24 00:00:00 to 2020-06-28: <b> 8095</b></p><p class="lead my-3">Total number of swabs from 2020-02-24 00:00:00 to 2020-06-28: <b> 333852</b></p><p class="lead my-3">TotalSwabs/Population: <b> 5.68%</b></p></body></html>
